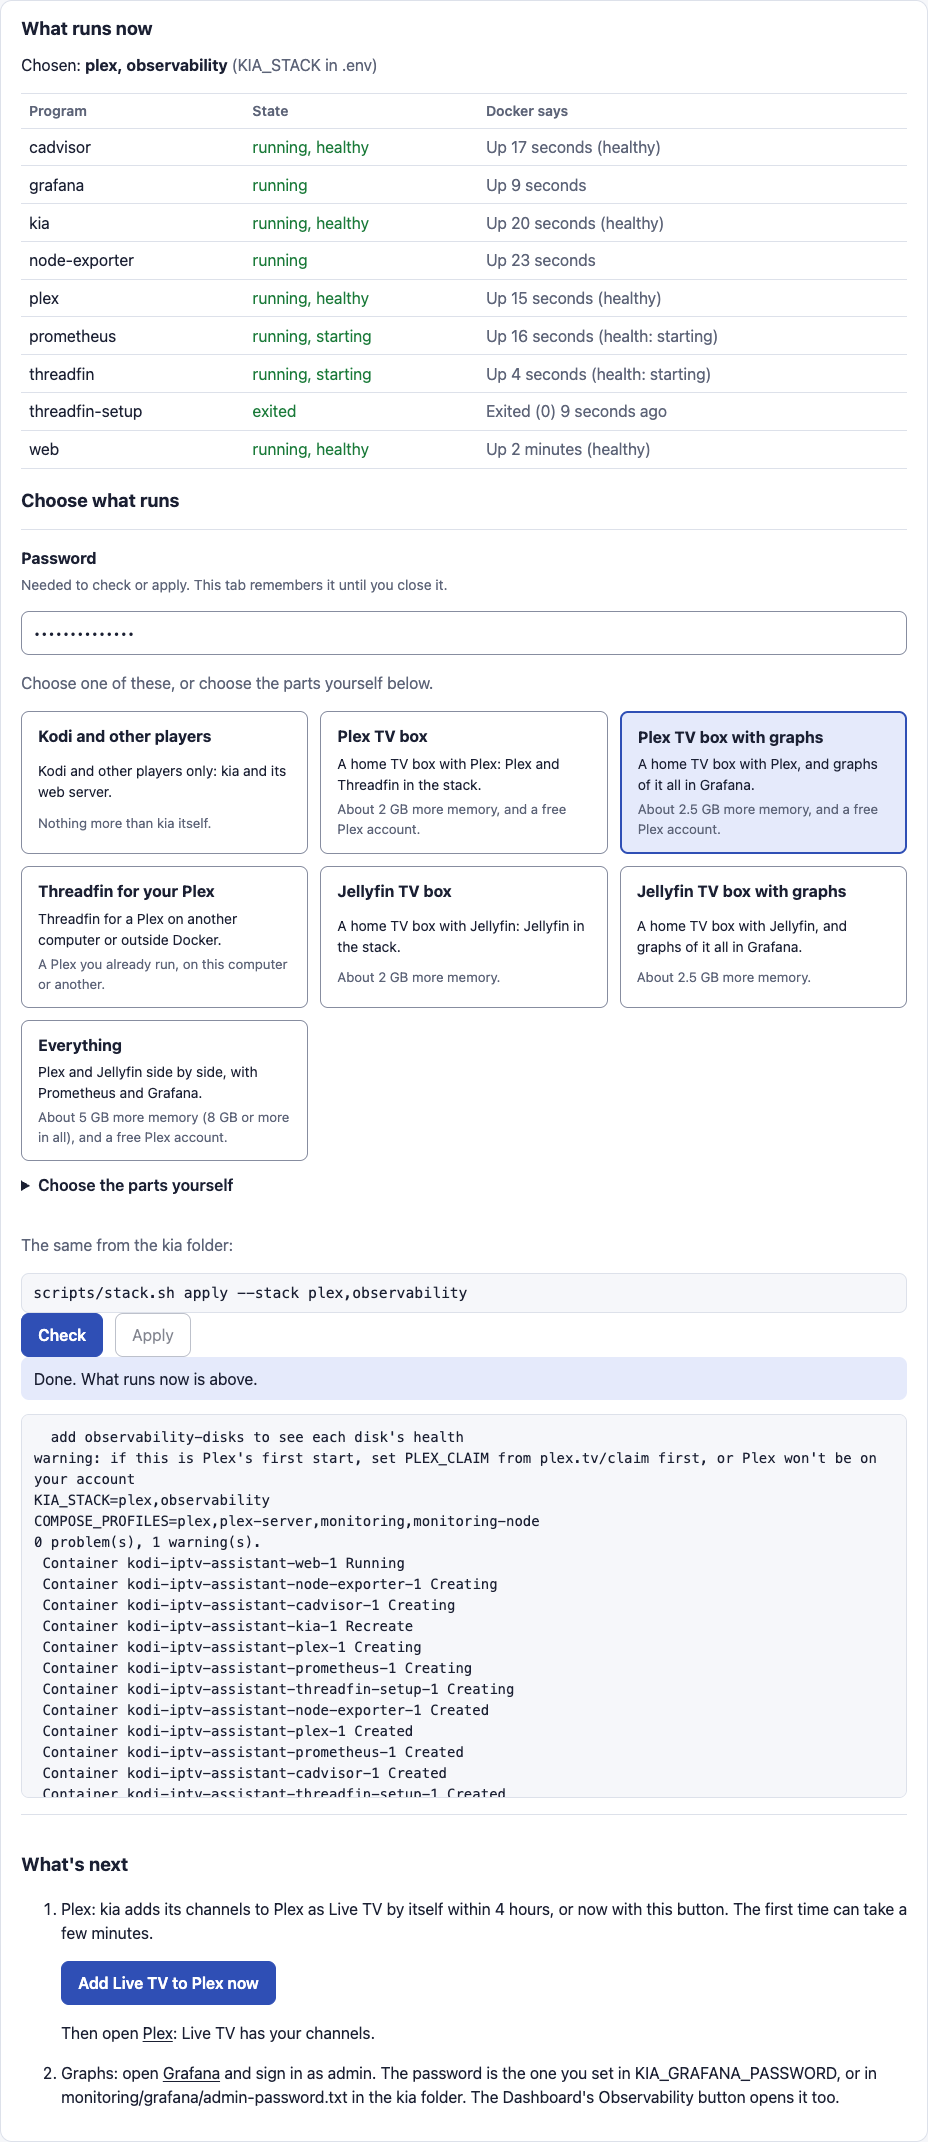
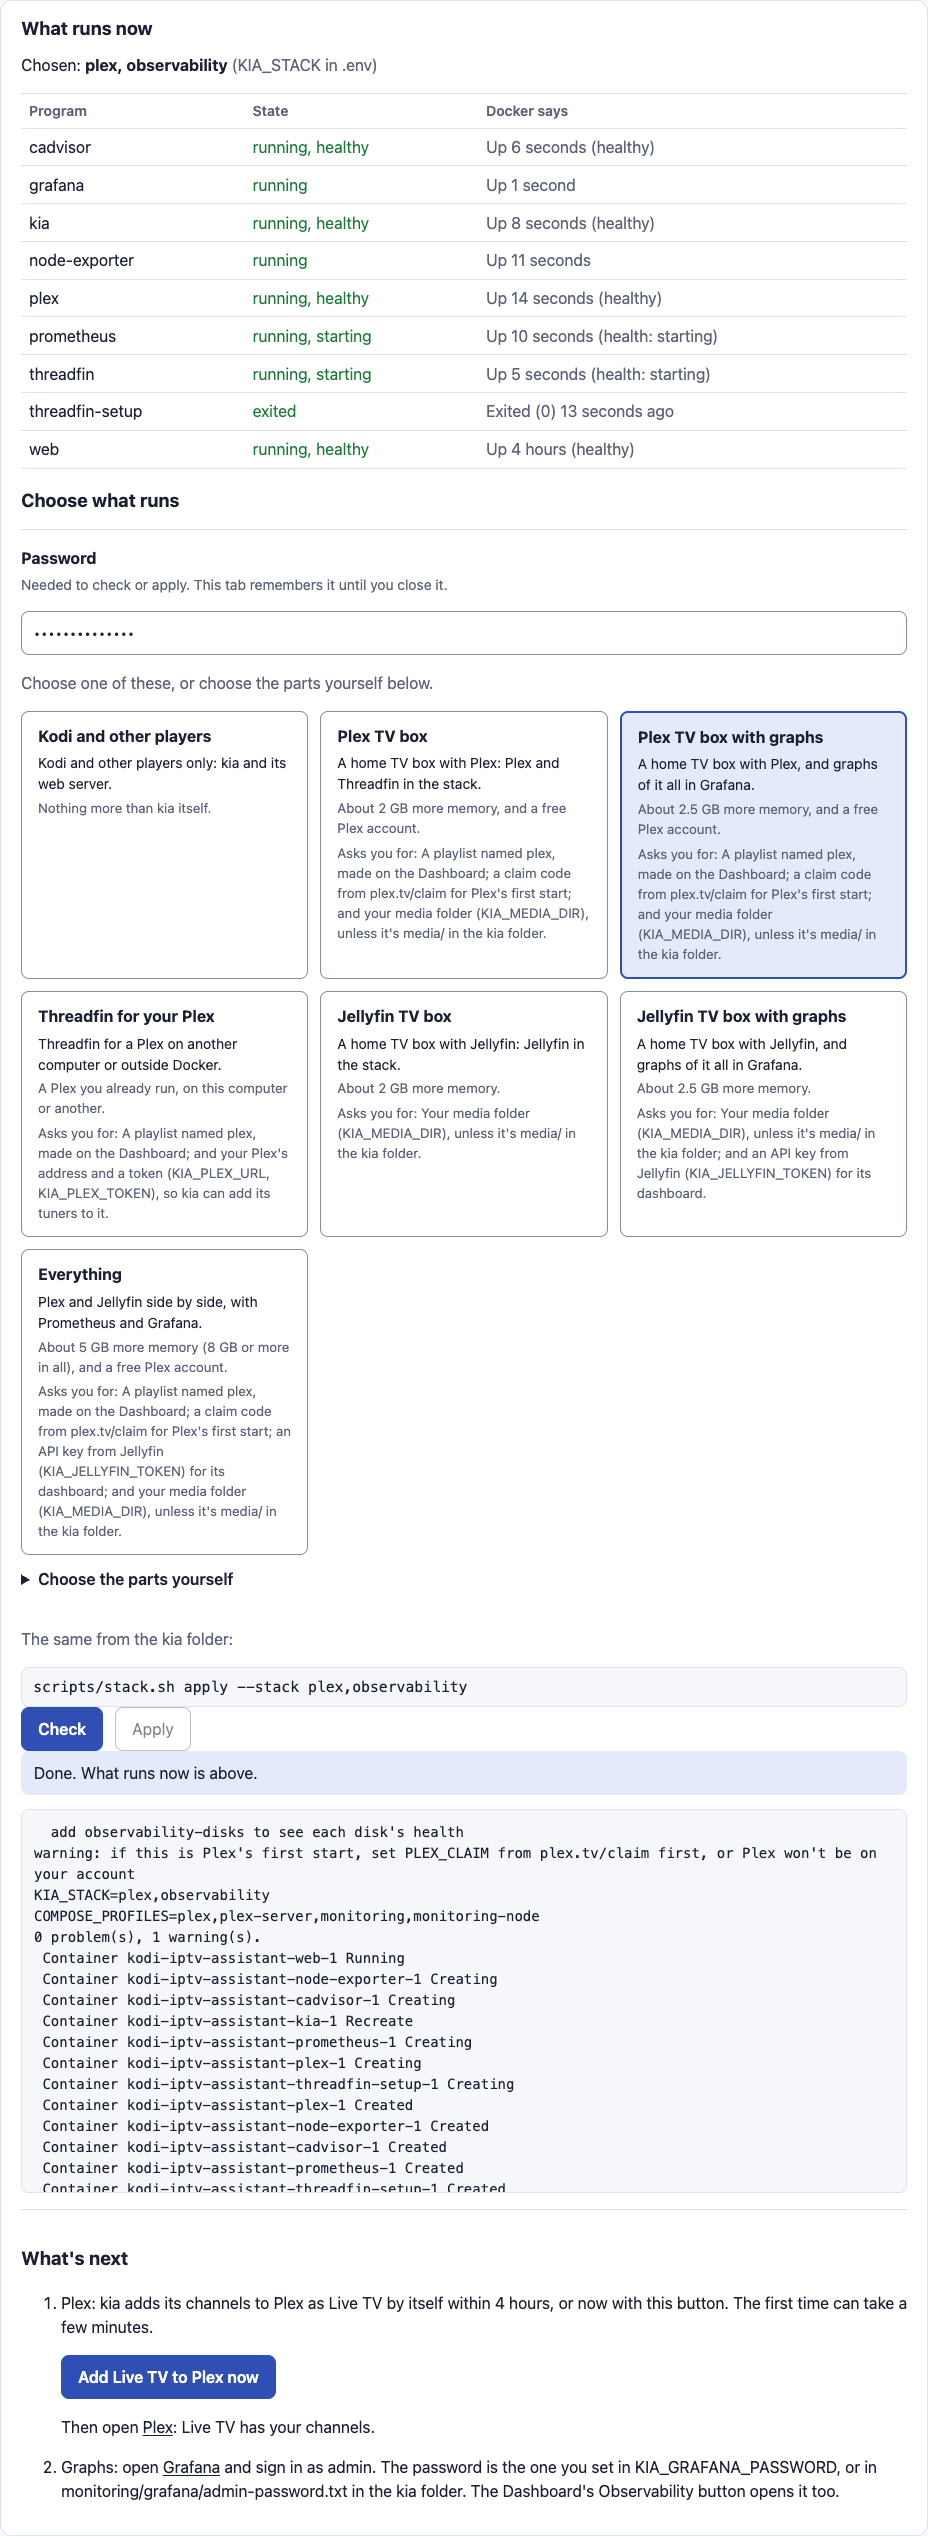
Presets say what they ask of you, before you choose one (#138)
Item 8 of the 0.5.7 plan, option 2: each preset says what it will ask of
you before you choose it.

- **Presets.** Each `stacks/*.env` has a new `# asks:` line next to `#
needs:` (memory, accounts). It says what the setup asks of you once
chosen:
- Plex presets: a playlist named `plex` made on the Dashboard, a claim
code from plex.tv/claim, and your media folder (`KIA_MEDIA_DIR`) unless
it's `media/`.
  - Threadfin for your Plex: your Plex's address and token.
- Jellyfin: your media folder, plus Jellyfin's API key for the graphs
preset.
  - Kodi: nothing more.
- **Shown in:**
- the Stack page's cards ("Asks you for: ...", left off when it's
nothing),
  - the installer's preset menu (an indented line under each preset),
  - `scripts/stack.sh list`,
- a new column in `docs/stack.md`'s presets table, with what "Plex's
playlist" and "your media folder" mean.

  `stack.presets()` passes it to the page as `asks`.
- **Cards.** A card's text stays at its top (`align-content: start`).
With taller cards beside it, the Kodi card's lines had spread out down
its height.
- **Screenshots.** The three Stack page pictures in
`docs/stack-dashboard.md` are retaken through the real flow on a test
VM: only kia, then a Check of *Plex TV box with graphs*, then Apply.
Their metadata is stripped and I viewed each one. The page's alt text
and the guide's card step now mention the new line.

Why not settings files for each preset: `stack.sh apply` already fills
[…]

Changed region(s): [[0.0, 0.0, 1.0, 0.986], [0.6562, 0.2773, 1.0, 0.493], [0.5, 0.0308, 0.7812, 0.2157]]

diff --git a/src/kia/stackeditor.py b/src/kia/stackeditor.py
@@ -31,7 +31,7 @@ STYLE = """
   border: 1px solid var(--line); border-radius: var(--radius-small); }
 @media (pointer: coarse) { .presets button { min-height: 44px; } }
 .preset-cards { display: grid; grid-template-columns: repeat(auto-fill, minmax(14rem, 1fr)); gap: var(--space-2); margin: var(--space-2) 0; }
-.preset-card { display: grid; gap: .3rem; text-align: left; padding: var(--space-2) var(--space-3); border-radius: var(--radius-small);
+.preset-card { display: grid; gap: .3rem; align-content: start; text-align: left; padding: var(--space-2) var(--space-3); border-radius: var(--radius-small);
   background: var(--card); color: var(--fg); border: 1px solid var(--control); font: inherit; cursor: pointer; min-height: 44px; }
 .preset-card .what { color: var(--fg); font-size: var(--step--1); }
 .preset-card small { color: var(--muted); }
@@ -127,7 +127,9 @@ SCRIPT = r"""
       var b = el("button", { type: "button", class: "preset-card", "aria-pressed": "false",
         on: { click: function () { data.parts.forEach(function (x) { boxes[x.name].checked = p.parts.indexOf(x.name) >= 0; }); changed(); } } },
         [el("strong", { text: p.title }), el("span", { class: "what", text: p.what.replace(/\s*\(docs\/[^)]*\)\.?$/, ".") }),
-         el("small", { text: p.needs })]);
+         el("small", { text: p.needs }),
+         // What it asks of you, before you choose it: a claim code, a folder, an API key.
+         p.asks && p.asks !== "Nothing more." ? el("small", { class: "asks", text: "Asks you for: " + p.asks }) : null]);
       b.parts = p.parts.slice().sort();
       cardButtons.push(b);
       cards.appendChild(b);

diff --git a/tests/test_stack.py b/tests/test_stack.py
@@ -282,8 +282,23 @@ def test_presets_have_a_title_and_what_they_need():
     assert stack.presets(ROOT)[0]["name"] == "kodi"  # simplest first, by "# order:"
     assert len({p["order"] for p in stack.presets(ROOT)}) == len(stack.presets(ROOT))
     for p in stack.presets(ROOT):
-        assert p["title"] and p["title"] != p["name"] and p["needs"] and p["what"], p["name"]
+        assert p["title"] and p["title"] != p["name"] and p["needs"] and p["what"] and p["asks"], p["name"]
         stack.parts_from(p["parts"])  # every part is one kia knows
+    asks = {p["name"]: p["asks"] for p in stack.presets(ROOT)}
+    # What each one asks of you, said before you choose it: Plex's claim code and its
+    # playlist, Jellyfin's API key for its graphs.
+    assert asks["kodi"] == "Nothing more."
+    for name in ("plex-box", "plex-box-graphs", "everything"):
+        assert "plex.tv/claim" in asks[name] and "playlist named plex" in asks[name], name
+    assert "KIA_PLEX_TOKEN" in asks["plex-elsewhere"] and "plex.tv/claim" not in asks["plex-elsewhere"]
+    assert "KIA_JELLYFIN_TOKEN" in asks["jellyfin-box-graphs"] and "KIA_JELLYFIN_TOKEN" not in asks["jellyfin-box"]
+
+
+def test_the_cards_say_what_a_preset_asks_of_you():
+    from kia import stackeditor
+
+    script = "".join(v for v in vars(stackeditor).values() if isinstance(v, str) and "<script>" in v)
+    assert '"Asks you for: " + p.asks' in script and 'p.asks !== "Nothing more."' in script
 
 
 def test_adding_live_tv_to_plex_from_the_page(tmp_path: Path, monkeypatch):

diff --git a/src/kia/stack.py b/src/kia/stack.py
@@ -198,8 +198,9 @@ def parts_from(value) -> list[str]:
 
 def presets(project_dir: Path) -> list[dict]:
     """The presets in stacks/, for the Stack page's cards: each one's name, title, what it's
-    for (its first line), what it needs (the "# title:" and "# needs:" lines), and parts, in
-    the order their "# order:" lines give."""
+    for (its first line), what it needs (memory, accounts) and asks of you (a claim code, a
+    folder) from its "# title:", "# needs:", and "# asks:" lines, and parts, in the order
+    their "# order:" lines give."""
     out = []
     for path in sorted((project_dir / "stacks").glob("*.env")):
         try:
@@ -212,7 +213,7 @@ def presets(project_dir: Path) -> list[dict]:
         names = [p for p in stack.replace(" ", ",").split(",") if p]
         order = comments.get("order", "")
         out.append({"name": path.stem, "title": comments.get("title") or path.stem, "what": what, "needs": comments.get("needs", ""),
-                    "parts": names, "order": int(order) if order.isdigit() else 99})  # fmt: skip
+                    "asks": comments.get("asks", ""), "parts": names, "order": int(order) if order.isdigit() else 99})  # fmt: skip
     # Simplest first: each preset's "# order:" line, then its name.
     return sorted(out, key=lambda p: (p["order"], p["name"]))
 

diff --git a/tests/test_stack_script.py b/tests/test_stack_script.py
@@ -464,3 +464,10 @@ def test_little_memory_and_two_heavy_parts_is_a_warning(kia: Path):
     r = stack(kia, "check", "--stack", "jellyfin,observability", FAKE_OS="Darwin")
     assert "this computer has 4 GB of memory; with 2 of plex, jellyfin, and observability" in r.stdout
     assert "of memory" not in stack(kia, "check", "--stack", "jellyfin", FAKE_OS="Darwin").stdout  # one is fine
+
+
+def test_the_list_says_what_each_preset_asks_of_you(kia: Path):
+    out = stack(kia, "list").stdout
+    assert "Asks you for: A playlist named plex, made on the Dashboard; a claim code from plex.tv/claim" in out
+    kodi = next(line for line in out.splitlines() if line.strip().startswith("kodi "))
+    assert "Asks you for" not in out.split(kodi, 1)[1].splitlines()[1]  # nothing more for kodi

diff --git a/tests/test_install_script.py b/tests/test_install_script.py
@@ -157,3 +157,10 @@ def test_the_preset_reads_this_computers_address_from_any_public_url(kia: Path, 
     r = install(kia, "--preset", "plex-box", "--yes")
     assert r.returncode == 0, r.stdout + r.stderr
     assert f"KIA_PLEX_ADVERTISE={advertised}\n" in env(kia)
+
+
+def test_the_preset_menu_says_what_each_one_asks_of_you(kia: Path):
+    r = install(kia, "--yes")  # no preset given: the menu is shown, and the default taken
+    assert r.returncode == 0, r.stdout + r.stderr
+    assert "What is this kia for?" in r.stdout
+    assert "Asks you for: A playlist named plex, made on the Dashboard; a claim code from plex.tv/claim" in r.stdout

diff --git a/docs/stack-dashboard.md b/docs/stack-dashboard.md
@@ -50,7 +50,7 @@ Changes happen on the secure Dashboard, at `https://` and port 8743: `https://19
 
 Choose **Stack** in the menu at the top, and enter the password in the **Password** box.
 
-![The Stack page with only kia and its web server running. Below What runs now, Choose what runs has the password box and a card for each preset, from Kodi and other players (highlighted, since it's what runs now) to Plex TV box, Jellyfin TV box with graphs, and Everything, each saying what it's for and what it needs. Under the cards are Choose the parts yourself, the same choice as a command for the kia folder, and the Check and Apply buttons.](../images/stack/stack-page.png)
+![The Stack page with only kia and its web server running. Below What runs now, Choose what runs has the password box and a card for each preset, from Kodi and other players (highlighted, since it's what runs now) to Plex TV box, Jellyfin TV box with graphs, and Everything, each saying what it's for, what it needs, and, for all but the first, what it asks of you, such as a claim code from plex.tv/claim or your media folder. Under the cards are Choose the parts yourself, the same choice as a command for the kia folder, and the Check and Apply buttons.](../images/stack/stack-page.png)
 
 **What runs now** lists every program next to kia and its state. A line in red means it isn't running, or Docker says it's unhealthy. Without the kia-stack service, this section says so, and the bottom of the page shows the command to run in the kia folder instead.
 
@@ -66,7 +66,7 @@ These go in `.env`, the settings file in the kia folder. Open it with `open -e .
 
 ## 4. Choose, and check
 
-Choose a card: it ticks the parts for that setup. For a combination no card has, open **Choose the parts yourself** and tick them one by one ([what each part is](stack.md#the-parts)). The box below shows the same choice as a command for the kia folder, if you'd rather run it there.
+Choose a card: it ticks the parts for that setup. Each card also says what that setup will ask of you, such as a claim code, your media folder, or an API key, so you can have it ready. For a combination no card has, open **Choose the parts yourself** and tick them one by one ([what each part is](stack.md#the-parts)). The box below shows the same choice as a command for the kia folder, if you'd rather run it there.
 
 Choose **Check**. Within a few seconds, the kia-stack service checks the choice for this computer, and the page shows what it found:
 

diff --git a/docs/stack.md b/docs/stack.md
@@ -36,15 +36,17 @@ A preset sets `KIA_STACK` for you, for one of the common setups. The installer o
 scripts/stack.sh apply --preset plex-box
 ```
 
-| Preset | Card | `KIA_STACK` | Needs |
-|---|---|---|---|
-| `kodi` | Kodi and other players | (empty): kia and its web server | Nothing more than kia itself |
-| `plex-box` | Plex TV box | `plex` | About 2 GB more memory, and a free Plex account |
-| `plex-box-graphs` | Plex TV box with graphs | `plex,observability` | About 2.5 GB more memory, and a free Plex account |
-| `plex-elsewhere` | Threadfin for your Plex | `plex-tuner` | A Plex you already run |
-| `jellyfin-box` | Jellyfin TV box | `jellyfin` | About 2 GB more memory |
-| `jellyfin-box-graphs` | Jellyfin TV box with graphs | `jellyfin,observability` | About 2.5 GB more memory |
-| `everything` | Everything | `plex,jellyfin,observability` | About 5 GB more memory (8 GB or more in all), and a free Plex account |
+| Preset | Card | `KIA_STACK` | Needs | Asks you for |
+|---|---|---|---|---|
+| `kodi` | Kodi and other players | (empty): kia and its web server | Nothing more than kia itself | Nothing more |
+| `plex-box` | Plex TV box | `plex` | About 2 GB more memory, and a free Plex account | Plex's playlist, a claim code, your media folder |
+| `plex-box-graphs` | Plex TV box with graphs | `plex,observability` | About 2.5 GB more memory, and a free Plex account | Plex's playlist, a claim code, your media folder |
+| `plex-elsewhere` | Threadfin for your Plex | `plex-tuner` | A Plex you already run | Plex's playlist, your Plex's address and token |
+| `jellyfin-box` | Jellyfin TV box | `jellyfin` | About 2 GB more memory | Your media folder |
+| `jellyfin-box-graphs` | Jellyfin TV box with graphs | `jellyfin,observability` | About 2.5 GB more memory | Your media folder, an API key from Jellyfin |
+| `everything` | Everything | `plex,jellyfin,observability` | About 5 GB more memory (8 GB or more in all), and a free Plex account | Plex's playlist, a claim code, an API key from Jellyfin, your media folder |
+
+"Plex's playlist" is a playlist named `plex`, made on the Dashboard, which Threadfin reads. Your media folder is `media/` in the kia folder unless you set `KIA_MEDIA_DIR`. The cards, the installer, and `scripts/stack.sh list` say what each one asks for before you choose it.
 
 They're in `stacks/` in the kia folder. Add your own parts to `KIA_STACK` afterwards, such as `observability-gpu` on a computer with an NVIDIA card.
 

diff --git a/CHANGELOG.md b/CHANGELOG.md
@@ -2,6 +2,10 @@
 
 ## 0.5.7 (unreleased)
 
+### Choosing the stack
+
+- Each preset says what it will ask of you before you choose it: Plex's playlist and claim code, your media folder, Jellyfin's API key, or your own Plex's address and token. The Stack page's cards, the installer's list, and `scripts/stack.sh list` show it, and the presets table in [choosing the parts](docs/stack.md#presets) has it too. A card's text now stays at its top, however tall the cards beside it are.
+
 ### Maintenance
 
 - A weekly check says when an image `compose.yaml` pins to a tested version (Threadfin, the graphics card's exporter) has a newer release of the same kind (`scripts/pinned-images.py`).
